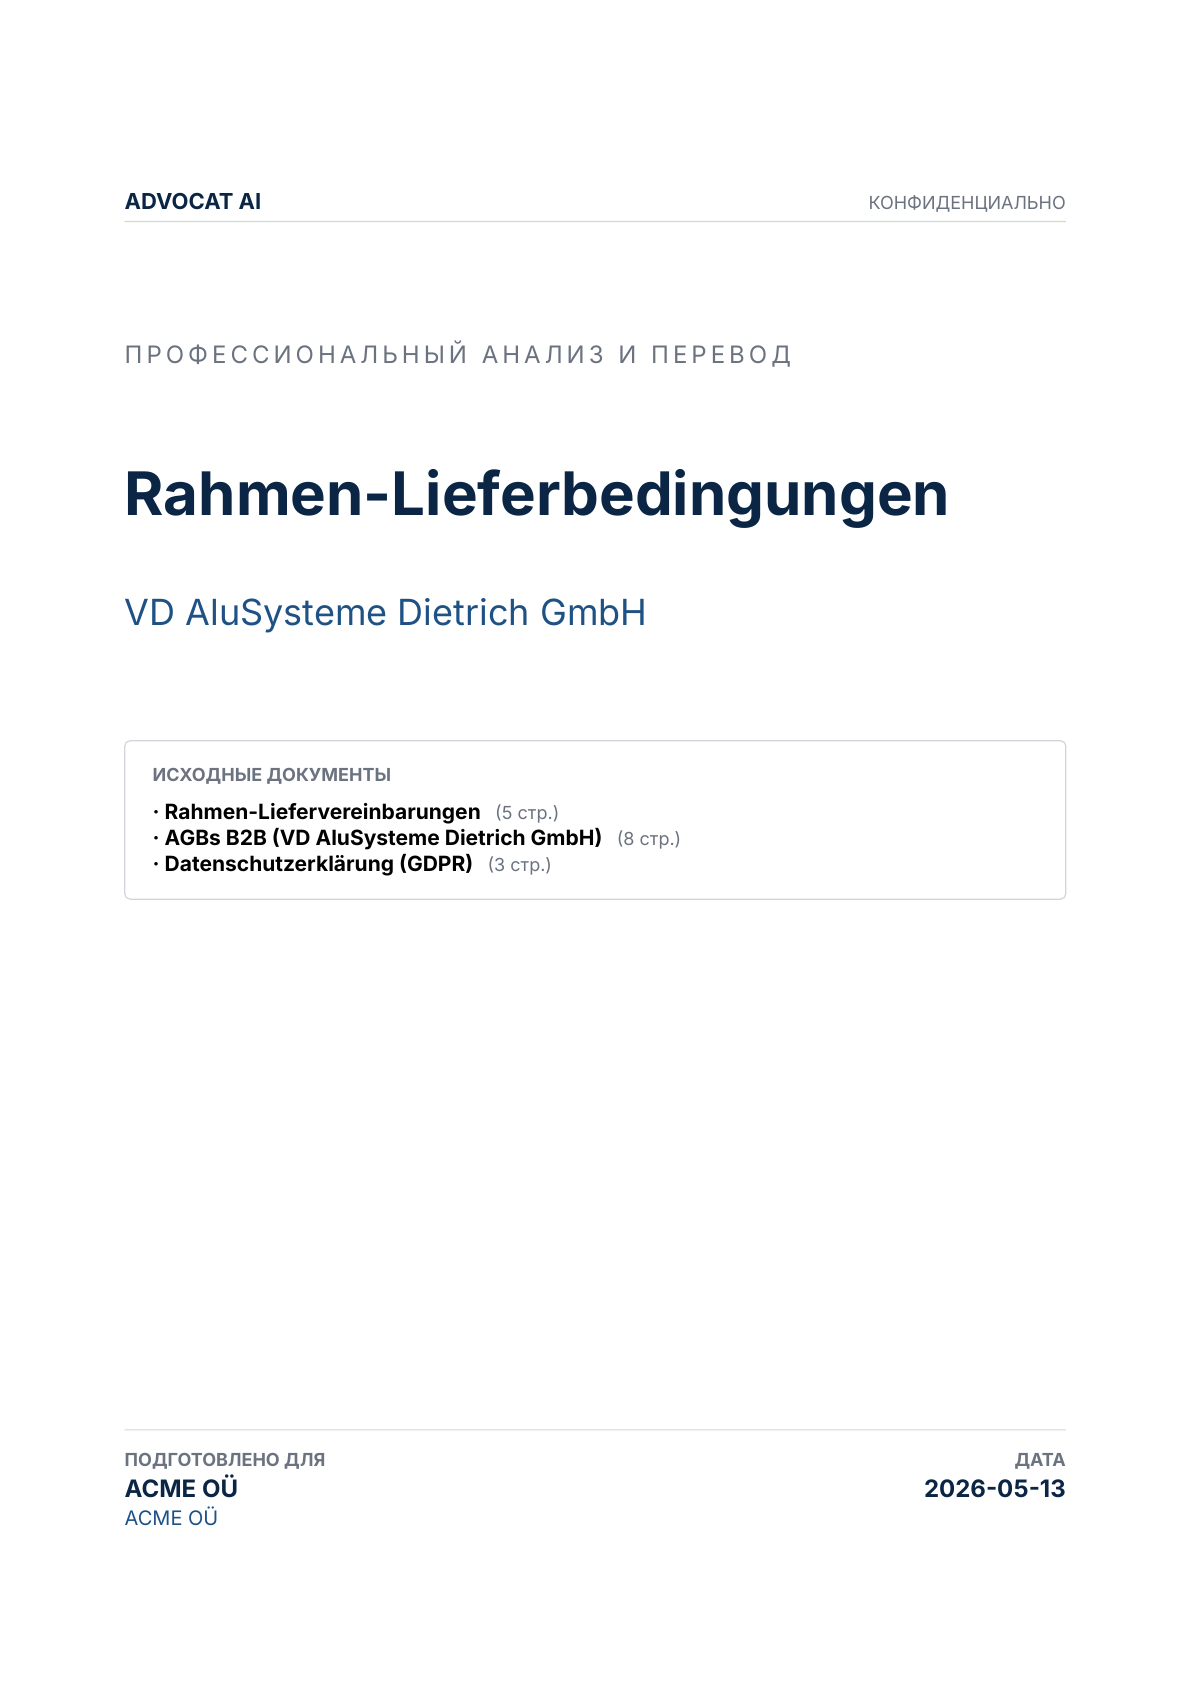
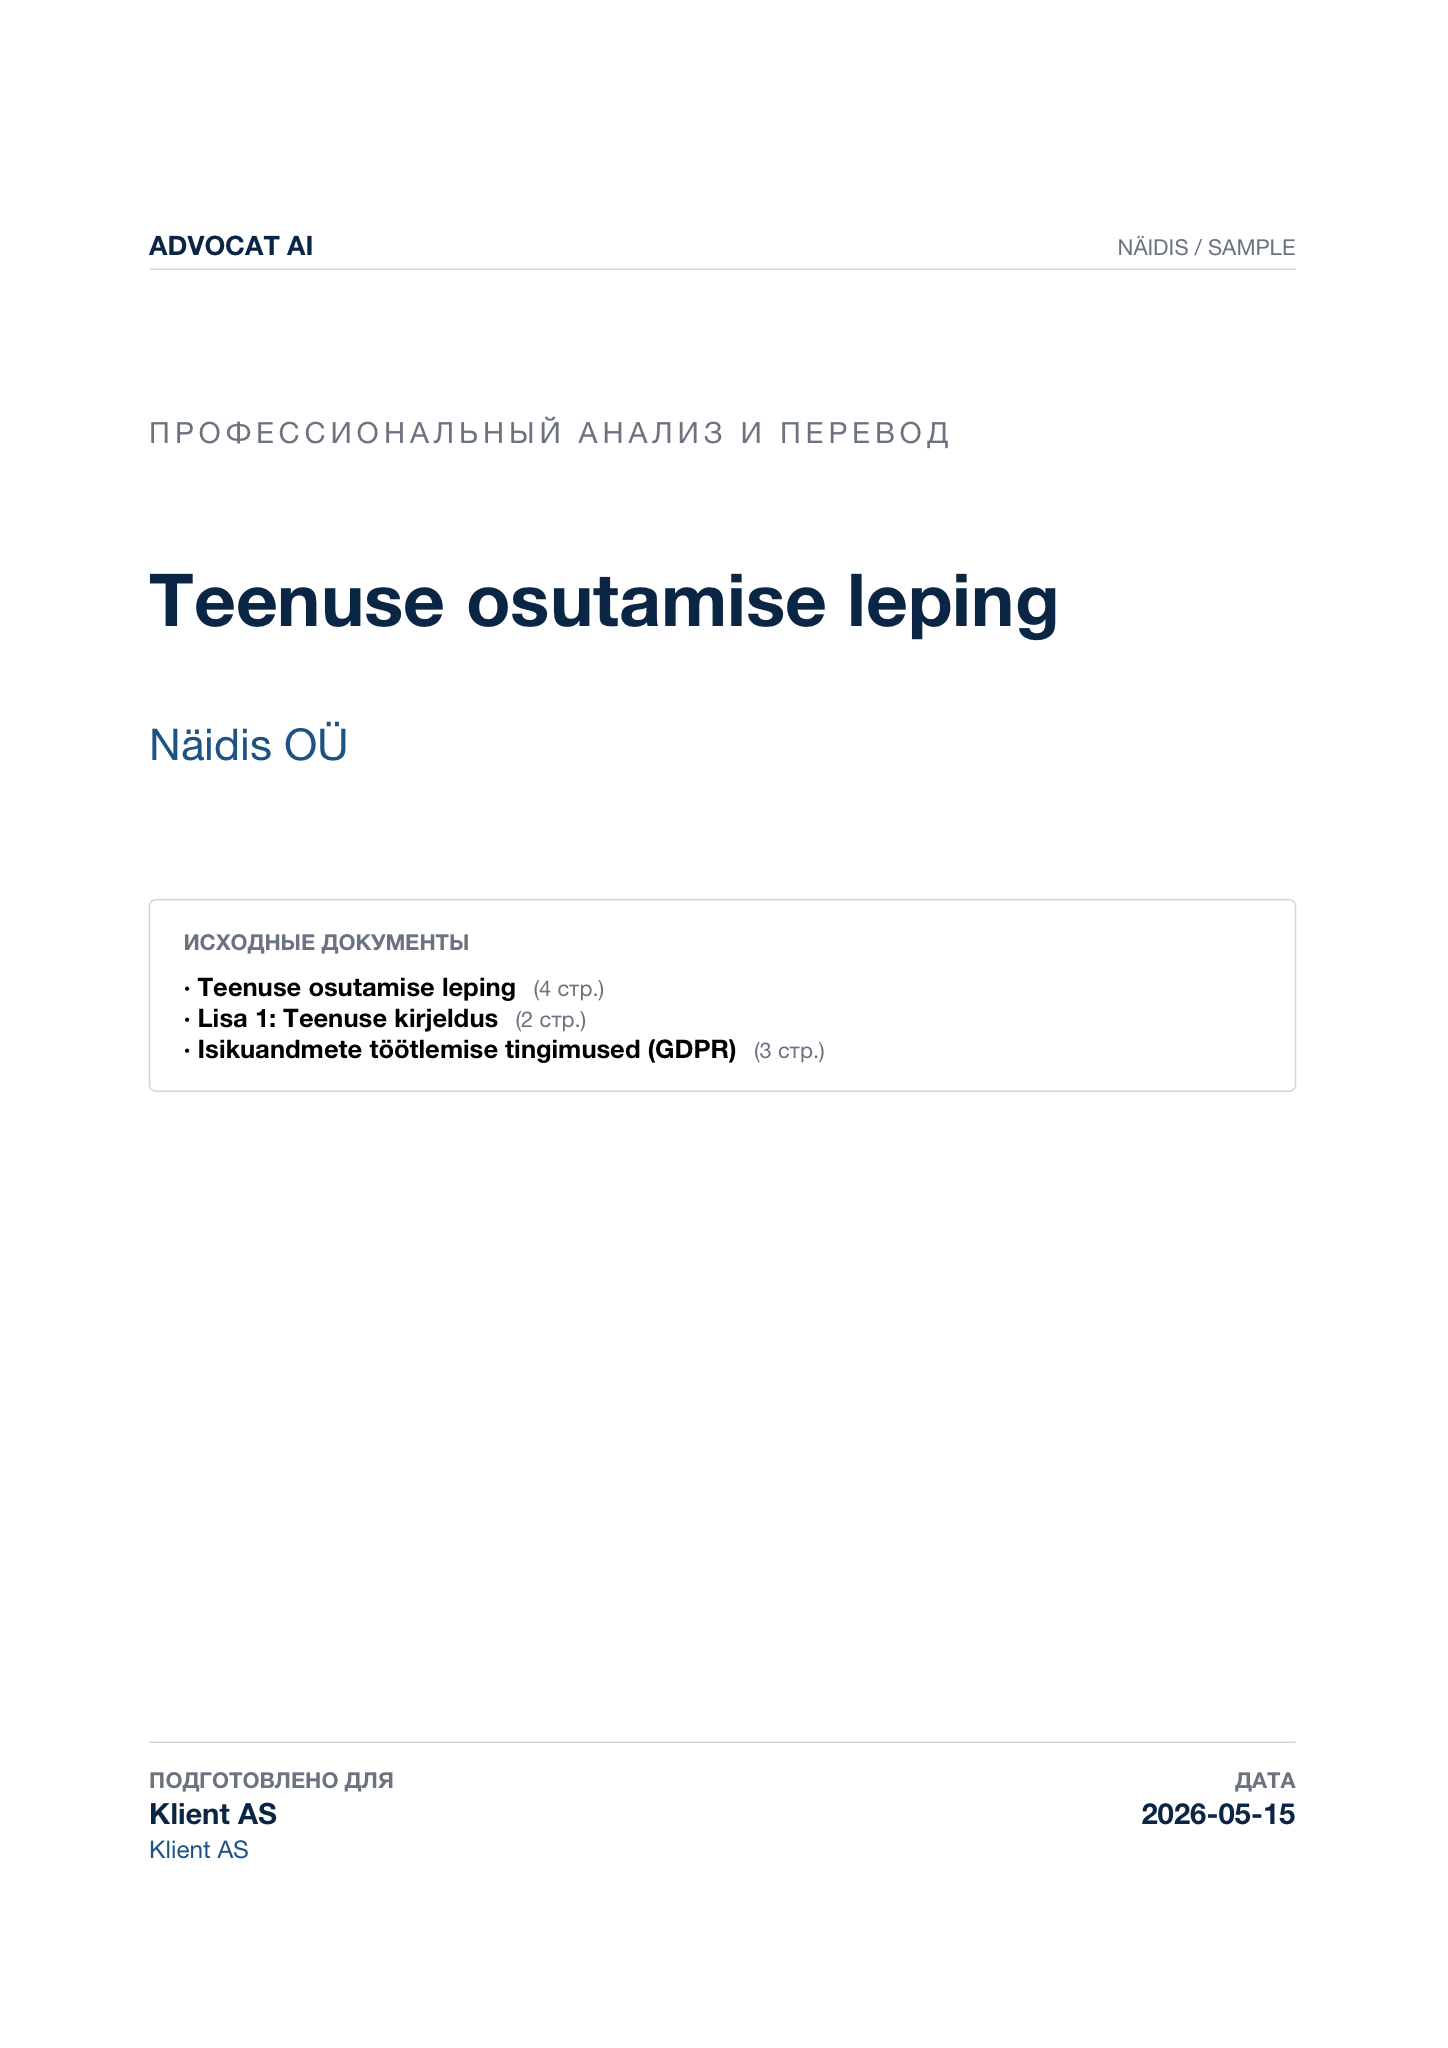
chore(landing): hide referral + replace contract preview (consilium 2026-05-15)
Two consilium-driven changes for pre-launch trust polish:

1. Feature-flag referral system (kReferralEnabled=false default).
   - Hide settings "Invite friends" tile + divider
   - Hide post-first-conversation referral nudge
   - Keep referral_service, /referral routes, /r/<code> handler
     alive for existing inbound links
   - Re-enable via --dart-define=ADVOCAT_REFERRAL_ENABLED=true
   - 34/34 referral tests still pass

2. Replace contract review landing preview.
   - OLD: real German "VD AluSysteme Dietrich GmbH" Rahmen-Lieferbedingungen
     with "КОНФИДЕНЦИАЛЬНО" marker (P0 legal liability per consilium)
   - NEW: synthetic Estonian "Teenuse osutamise leping" / "Näidis OÜ"
     with "NÄIDIS / SAMPLE" marker (zero legal risk)
   - Same dark navy + sans-serif visual language as before
   - Rendered via prod Typst template (dog-food)

diff --git a/lib/features/settings/screens/settings_screen.dart b/lib/features/settings/screens/settings_screen.dart
@@ -9,6 +9,7 @@ import 'package:path_provider/path_provider.dart';
 import 'package:share_plus/share_plus.dart';
 import 'package:url_launcher/url_launcher.dart';
 
+import '../../../config/feature_flags.dart';
 import '../../../config/router.dart';
 import '../../../config/theme.dart';
 import '../../../l10n/app_localizations.dart';
@@ -107,18 +108,22 @@ class SettingsScreen extends ConsumerWidget {
 
           // ── Invite friends ────────────────────────────────────────────
           // Growth loop: tap → /referral screen with copyable link + share.
-          _SettingsTile(
-            icon: Icons.card_giftcard_outlined,
-            title: l.referralSettingsTile,
-            subtitle: l.referralSubtitle,
-            trailing: const Icon(
-              AppIcons.chevronRight,
-              color: AppColors.textTertiary,
+          // Soft-launched (consilium 2026-05-15): the tile is hidden behind
+          // `kReferralEnabled`; route + service stay compiled so flipping
+          // the flag re-exposes the surface with zero further work.
+          if (kReferralEnabled)
+            _SettingsTile(
+              icon: Icons.card_giftcard_outlined,
+              title: l.referralSettingsTile,
+              subtitle: l.referralSubtitle,
+              trailing: const Icon(
+                AppIcons.chevronRight,
+                color: AppColors.textTertiary,
+              ),
+              onTap: () => context.push(AppRoutes.referral),
             ),
-            onTap: () => context.push(AppRoutes.referral),
-          ),
 
-          const _SectionDivider(),
+          if (kReferralEnabled) const _SectionDivider(),
 
           // ── Data & Privacy ────────────────────────────────────────────
           _SectionHeader(title: l.dataAndPrivacy),

diff --git a/lib/config/feature_flags.dart b/lib/config/feature_flags.dart
@@ -58,3 +58,28 @@ bool gmailScopeIncludesReadonly(String? scope) {
   if (scope == null || scope.isEmpty) return false;
   return scope.contains('gmail.readonly');
 }
+
+// -----------------------------------------------------------------------------
+// Referral programme — soft-launch gate (consilium 2026-05-15).
+// -----------------------------------------------------------------------------
+
+/// Master switch for the in-app referral programme ("Invite a friend").
+///
+/// When `false` (current production default):
+///   * The settings-screen "Invite friends" tile is hidden.
+///   * The post-first-conversation snackbar nudge is suppressed.
+///   * The /referral and /r/:code routes remain registered so that inbound
+///     shared links (web/r.html → /r/<code>) still resolve — that surface
+///     is governed by the server-side referral attribution endpoint, not
+///     by the UI.
+///   * The referral_service / providers / models stay compiled and
+///     reachable from code; only the UI entry points are dark.
+///
+/// Flip via `--dart-define=ADVOCAT_REFERRAL_ENABLED=true` at build time to
+/// re-enable without touching source.
+///
+/// Ref: consilium 2026-05-15 (soft-launch decision).
+const bool kReferralEnabled = bool.fromEnvironment(
+  'ADVOCAT_REFERRAL_ENABLED',
+  defaultValue: false,
+);

diff --git a/lib/features/home/screens/home_screen.dart b/lib/features/home/screens/home_screen.dart
@@ -7,6 +7,7 @@ import 'package:go_router/go_router.dart';
 import 'package:shared_preferences/shared_preferences.dart';
 import 'package:timeago/timeago.dart' as timeago;
 
+import '../../../config/feature_flags.dart';
 import '../../../config/router.dart';
 import '../../../config/theme.dart';
 import '../../../l10n/app_localizations.dart';
@@ -60,6 +61,11 @@ class _HomeScreenState extends ConsumerState<HomeScreen> {
   ///     already in a prior session; don't pester.
   Future<void> _maybeShowReferralNudge() async {
     try {
+      // Soft-launch gate (consilium 2026-05-15) — referral surfaces are
+      // disabled by default; the rest of the gating logic is kept compiled
+      // so the feature can be re-enabled via dart-define without churn.
+      if (!kReferralEnabled) return;
+
       final isDemo = ref.read(isDemoModeProvider);
       if (isDemo) return;
 
